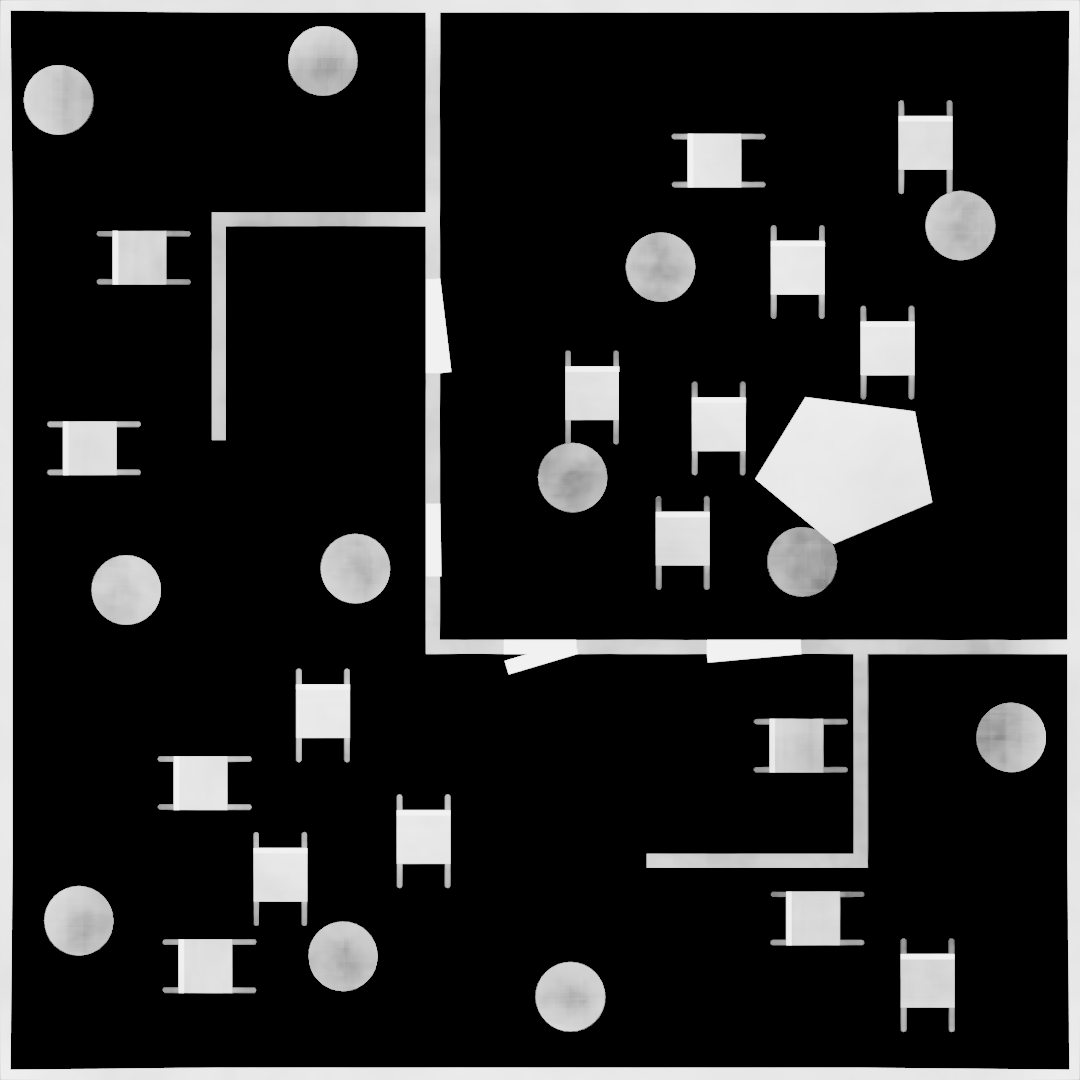
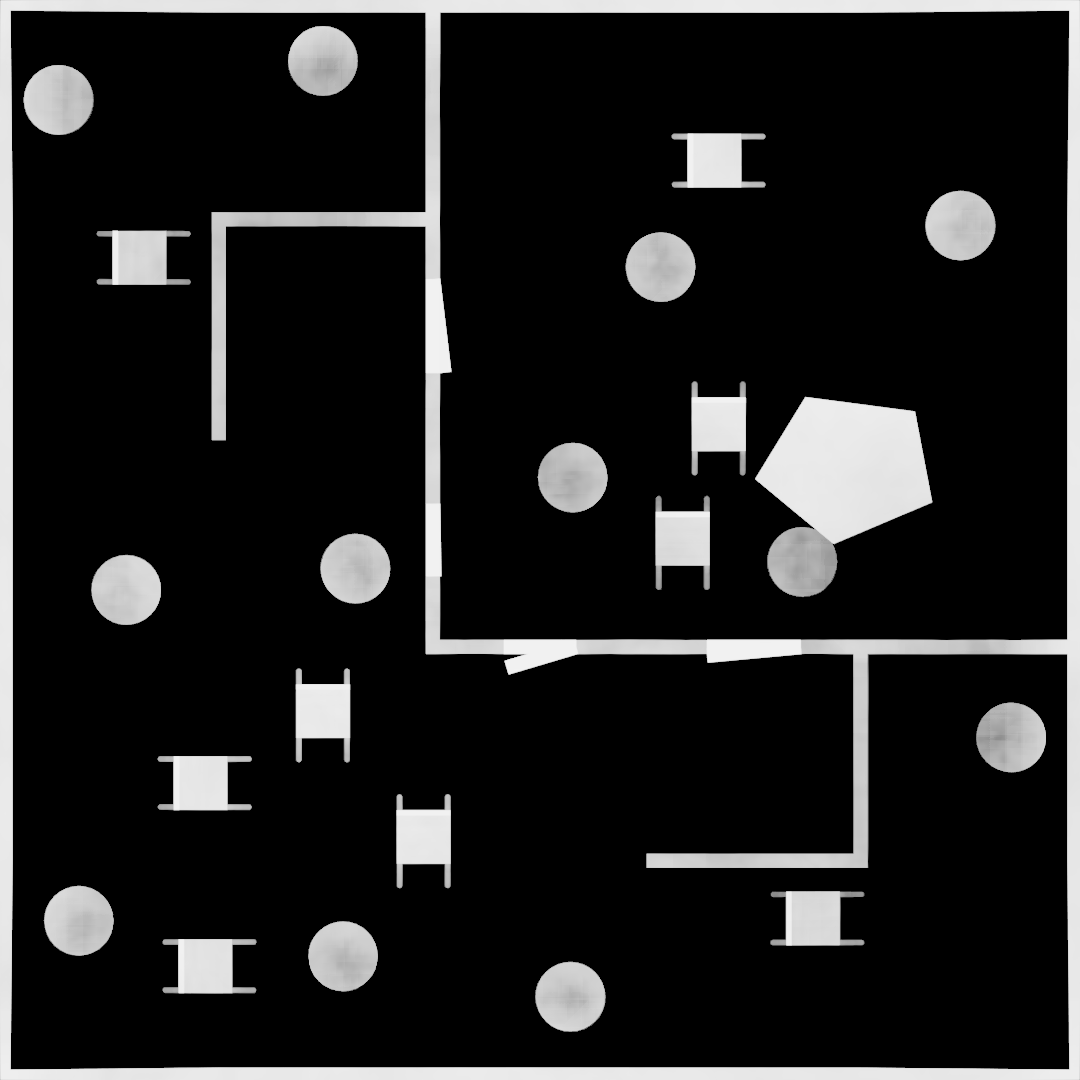
add unique inst id, delete random, and fix duplicate problem

diff --git a/blender_python_code/object_placement_utils.py b/blender_python_code/object_placement_utils.py
@@ -18,7 +18,19 @@ class object_placement:
         bpy.ops.object.select_all(action='DESELECT')
         
         self.room_center = bpy.data.objects["Walls"].location
+        self.default_location = (0,0,0)   
     
+    def set_object_id(self, object_name, inst_id):
+        """ 
+        Gives unique object id to all the copies of a given object"""
+        
+        # get a list of the objects which are copies of the given object
+        objects = [obj for obj in bpy.data.objects if object_name+"." in obj.name]
+        for i in range(len(objects)):
+            objects[i]["inst_id"] = inst_id+i
+        
+        
+        
     def place_walls(self,inst_id=255):
         """ 
         this function places the room in the scene. 
@@ -26,26 +38,27 @@ class object_placement:
         output: None
         
         """
-        default_location = (0,0,0)   
+        
         object_name = "Walls"
         self.blend_deselect_all()
         bpy.data.objects[object_name].select_set(True)
         # set object as active
         bpy.context.view_layer.objects.active = bpy.data.objects[object_name]
 
-        bpy.context.object.modifiers["GeometryNodes"]["Socket_6"] = np.random.randint(0, 100000)
+        bpy.context.object.modifiers["GeometryNodes"]["Socket_9"] = np.random.randint(0, 100000)
         obj = bpy.context.active_object
 
         bpy.ops.object.duplicate_move(OBJECT_OT_duplicate={"linked":False, "mode":'TRANSLATION'}, TRANSFORM_OT_translate={"value":(45.2641, 3.86619, -3.15708), "orient_type":'GLOBAL', "orient_matrix":((1, 0, 0), (0, 1, 0), (0, 0, 1)), "orient_matrix_type":'GLOBAL', "constraint_axis":(False, False, False), "mirror":False, "use_proportional_edit":False, "proportional_edit_falloff":'SMOOTH', "proportional_size":1, "use_proportional_connected":False, "use_proportional_projected":False, "snap":False, "snap_elements":{'FACE_NEAREST'}, "use_snap_project":True, "snap_target":'CLOSEST', "use_snap_self":True, "use_snap_edit":True, "use_snap_nonedit":True, "use_snap_selectable":False, "snap_point":(0, 0, 0), "snap_align":False, "snap_normal":(0, 0, 0), "gpencil_strokes":False, "cursor_transform":False, "texture_space":False, "remove_on_cancel":False, "view2d_edge_pan":False, "release_confirm":False, "use_accurate":False, "use_automerge_and_split":False})
         bpy.ops.object.convert(target='MESH')
         bpy.context.view_layer.objects.active = bpy.data.objects[f'{object_name}.001']
         obj = bpy.context.active_object
-        obj.location = default_location
-        obj["inst_id"] = inst_id
+        obj.location = self.default_location
+        
+        self.set_object_id(object_name=object_name, inst_id=inst_id)
         
     def place_doors(self,inst_id=255):
 
-        default_location = (0,0,0)   
+    
         object_name = "Doors"
         self.blend_deselect_all()
         bpy.data.objects[object_name].select_set(True)
@@ -57,11 +70,11 @@ class object_placement:
         bpy.ops.object.convert(target='MESH')
         bpy.context.view_layer.objects.active = bpy.data.objects[f'{object_name}.001']
         obj = bpy.context.active_object
-        obj.location = default_location
-        obj["inst_id"] = inst_id
-    def place_objects(self,inst_id=255, object_name="Walls"):
+        obj.location = self.default_location
+        self.set_object_id(object_name=object_name, inst_id=inst_id)
+    def place_objects(self,inst_id=255, object_name=""):
 
-        default_location = (0,0,0)   
+        
         self.blend_deselect_all()
         bpy.data.objects[object_name].select_set(True)
         # set object as active
@@ -72,53 +85,15 @@ class object_placement:
         bpy.ops.object.convert(target='MESH')
         bpy.context.view_layer.objects.active = bpy.data.objects[f'{object_name}.001']
         obj = bpy.context.active_object
-        obj.location = default_location
-        obj["inst_id"] = inst_id
-
-
-    def place_tables(self,inst_id=100,size_range=(0.1,0.7),  leg_nr_range=(3,5),location=(0,0,0)):
-        """ 
-        this function places the tables in the scene. 
-        input: num_tables: number of tables to be placed
-                inst_id: instance id of the first table
-                
-        TODO: leg_nr_range: range of number of legs of the table
-        TODO: better randomization of table placement
-        TODO: better randomization of table rotation
-        TODO: better randomization of table scale
+        obj.location = self.default_location
         
-        """
-        self.blend_deselect_all()
+        # Split mesh into individual objects
+        bpy.ops.mesh.separate(type='LOOSE')
+        self.set_object_id(object_name=object_name, inst_id=inst_id)
+        
         
 
-        nr_of_legs = np.random.randint(leg_nr_range[0],leg_nr_range[1]+1)
-        size_x = np.random.uniform(size_range[0],size_range[1])
-        size_y = np.random.uniform(size_range[0],size_range[1])
-        print(f"nr_of_legs: {nr_of_legs}, size_x: {size_x}, size_y: {size_y}")
-        
-        object_name = "round table"
-        
-        bpy.ops.object.select_all(action='DESELECT')
-        bpy.data.objects[object_name].select_set(True)
-        bpy.context.view_layer.objects.active = bpy.data.objects[object_name]
-        # set object to contex      
-        bpy.context.object.modifiers["GeometryNodes"]["Input_2"] = nr_of_legs
-        bpy.context.object.modifiers["GeometryNodes"]["Input_5"] = size_x
-        bpy.context.object.modifiers["GeometryNodes"]["Input_6"] = size_y
 
-        
-        bpy.ops.object.duplicate_move_linked(OBJECT_OT_duplicate={"linked":True, "mode":'TRANSLATION'}, TRANSFORM_OT_translate={"value":(0,0,0), "orient_type":'GLOBAL', "orient_matrix":((1, 0, 0), (0, 1, 0), (0, 0, 1)), "orient_matrix_type":'GLOBAL', "constraint_axis":(False, False, False), "mirror":False, "use_proportional_edit":False, "proportional_edit_falloff":'SMOOTH', "proportional_size":1, "use_proportional_connected":False, "use_proportional_projected":False, "snap":False, "snap_elements":{'FACE_NEAREST'}, "use_snap_project":True, "snap_target":'CLOSEST', "use_snap_self":True, "use_snap_edit":True, "use_snap_nonedit":True, "use_snap_selectable":False, "snap_point":(0, 0, 0), "snap_align":False, "snap_normal":(0, 0, 0), "gpencil_strokes":False, "cursor_transform":False, "texture_space":False, "remove_on_cancel":False, "view2d_edge_pan":False, "release_confirm":False, "use_accurate":False, "use_automerge_and_split":False})
-        obj = bpy.context.active_object
-        obj.location = location
-        bpy.ops.object.convert(target='MESH')
-        obj = bpy.context.active_object
-        obj["inst_id"] = inst_id
-        
-        # do bpy.data.objects["table square"].data.copy() to each instance of table square
-        for obj in bpy.data.objects:
-            if obj.name.startswith(object_name):
-                obj.data = bpy.data.objects[object_name].data.copy()
-                pass
     
     def place_raytrace(self, position=(0,0,0)):
         """ 
@@ -168,9 +143,28 @@ class object_placement:
         
         for obj in bpy.data.objects:
             obj.hide_render = False
-    def delete_object(self, object_name):
+    def delete_single_object(self, object_name):
         """Deletes an object from the scene"""
         bpy.data.objects.remove(bpy.data.objects[object_name])
+        
+    def delete_random(self, object_type_name="Chairs display", delete_percentage=1):
+        """Deletes a number of random objects from the scene"""
+        
+        # get all objects of object_type_name
+        objects = [obj for obj in bpy.data.objects if object_type_name+"." in obj.name]
+        
+        # calculate the number of objects to delete
+        delete_amount = int(len(objects)*delete_percentage)
+        
+    
+        # delete delete_amount random objects
+        for _ in range(delete_amount):
+            obj = random.choice(objects)
+            bpy.data.objects.remove(obj)
+            objects.remove(obj)
+
+        
+        
         
     def configure_camera(self, position=(0,0,0)):
         """ Set the camera position to the given position"""
@@ -191,23 +185,24 @@ class object_placement:
         depth = np.abs(bbox[4][1]) + np.abs(bbox[0][1])
         width = np.abs(bbox[4][0]) + np.abs(bbox[0][0])
         return height, width, depth
-
-        
-        
-        
-        
-        
-        
+    
         
     
     def blend_deselect_all(self):
         try:
             for ob in bpy.context.selected_objects:
                 ob.select = False
-            bpy.ops.outliner.item_activate(deselect_all=True)
-            bpy.ops.object.select_all(action='DESELECT')
         except:
             pass
+        try:
+            bpy.ops.outliner.item_activate(deselect_all=True)
+        except:
+            pass
+        try:
+            bpy.ops.object.select_all(action='DESELECT')
+        except:
+            pass    
+     
         
     def finalize(self):
         """ 

diff --git a/blender_python_code/Generate_Dataset.py b/blender_python_code/Generate_Dataset.py
@@ -22,7 +22,7 @@ start_time = time.time()
 
 place_class = object_placement_utils.object_placement(delete_duplicates=True)
 
-
+# Generate the room
 height, width, depth = place_class.get_object_dims(object_name="Walls")
 place_class.place_walls(inst_id=255)
 place_class.place_doors(inst_id=150)
@@ -30,7 +30,7 @@ place_class.place_objects(object_name="Chairs display", inst_id=100)
 place_class.place_objects(object_name="Tables display", inst_id=50)
 place_class.place_objects(object_name="Pillars display", inst_id=10)
 
-
+custom_render_utils.render_data(folder ="blender_python_code\\data",  path_affix="True", save_rgb=True, save_inst=True, save_depth=True)   
 
 
 # Generate pointcloud image
@@ -42,12 +42,15 @@ place_class.unisolate()
 
 
 # get map image
-place_class.delete_object("raytrace.001")
-custom_render_utils.simple_render(folder ="blender_python_code\\data",file_prefix ="map", file_affix="1")
+place_class.delete_single_object("raytrace.001")
+place_class.delete_random(object_type_name="Chairs display", delete_percentage=0.5)
+custom_render_utils.simple_render(folder ="blender_python_code\\data",file_prefix ="Map", file_affix="1")
 
 
 
-custom_render_utils.render_data(folder ="blender_python_code\\data",  path_affix="1", save_rgb=True, save_inst=True, save_depth=True)   
+
+
+custom_render_utils.render_data(folder ="blender_python_code\\data",  path_affix="Prior", save_rgb=True, save_inst=True, save_depth=True)   
 
 place_class.finalize()
 

diff --git a/blender_python_code/test.py b/blender_python_code/test.py
@@ -1,0 +1,30 @@
+#!/usr/bin/env python3
+# -*- coding: utf-8 -*-
+import os
+import sys
+sys.path.append(os.path.dirname(os.path.realpath(__file__)))
+
+import bpy
+import bpycv
+import random
+import numpy as np
+import time
+
+import custom_render_utils
+import importlib
+import object_placement_utils
+
+# force a reload of object_placement_utils to help during development
+importlib.reload(object_placement_utils)
+importlib.reload(custom_render_utils)
+
+start_time = time.time()
+
+place_class = object_placement_utils.object_placement(delete_duplicates=True)
+
+height, width, depth = place_class.get_object_dims(object_name="Walls")
+place_class.place_walls(inst_id=255)
+place_class.place_doors(inst_id=150)
+place_class.place_objects(object_name="Chairs display", inst_id=100)
+
+place_class.finalize()

diff --git a/blender_python_code/custom_render_utils.py b/blender_python_code/custom_render_utils.py
@@ -14,7 +14,7 @@ def render_data(folder = r"data", path_affix="", save_rgb=True, save_inst=True, 
     result = bpycv.render_data()
 
     rgb_pathname = f"{folder}\\-rgb-{path_affix}.png"
-    depth_pathname = f"{folder}-depth-{path_affix}_depth.png"
+    depth_pathname = f"{folder}\\-depth-{path_affix}_depth.png"
     inst_pathname = f"{folder}\\-inst-{path_affix}_inst.png"
     combined_pathname = f"{folder}\\-combined-{path_affix}.png" 
     
